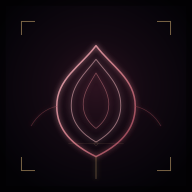
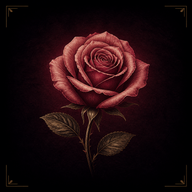
アイコンを Codex 生成の薔薇画に差し替え
- icon-180/192/512/512-maskable.png を全て更新
- 抽象的な線画から、本物の薔薇画に
- SW VERSION を v2 にして既存ユーザーのキャッシュを更新

diff --git a/sw.js b/sw.js
@@ -4,7 +4,7 @@
 //   - Stale-while-revalidate for static assets (fast load + background update)
 //   - Cache-only fallback when offline
 
-const VERSION = 'v1';
+const VERSION = 'v2';
 const CACHE_NAME = `prompt-collection-${VERSION}`;
 
 // Minimal precache: index + manifest + icons. Card pages and per-card images
